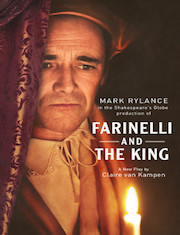
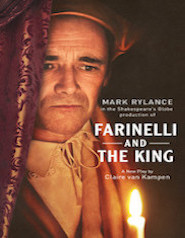
fix image sizing

diff --git a/app/assets/stylesheets/main_page.scss b/app/assets/stylesheets/main_page.scss
@@ -35,7 +35,7 @@ body {
 }
 
 .photo-banner-image{
-  width: 182.7px;
+
 }
 
 .main-page-show-lists {
